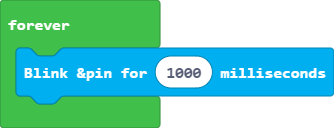
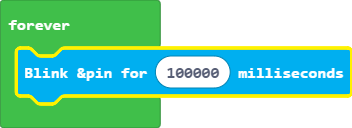
Update main.blocks, main.ts, custom.ts

Changed region(s): [[0.0299, 0.0, 1.0, 1.0], [0.0299, 0.1562, 0.2096, 0.25]]

diff --git a/custom.ts b/custom.ts
@@ -9,7 +9,7 @@ namespace EnginoBit {
       * @param pin select pin to blink, eg: LED
       * @param duration value (microseconds), eg: 10000 microseconds
       */
-    //% block="Blink &pin for $duration milliseconds"
+    //% block="Blink Select Pin $pin for $duration milliseconds"
     export function led_on_for_duration(duration: number): void {
     pins.LED.digitalWrite(true)
     control.waitMicros(duration)

diff --git a/main.ts b/main.ts
@@ -1,3 +1,3 @@
 forever(function () {
-    EnginoBit.led_on_for_duration(1000)
+    EnginoBit.led_on_for_duration(100000)
 })
